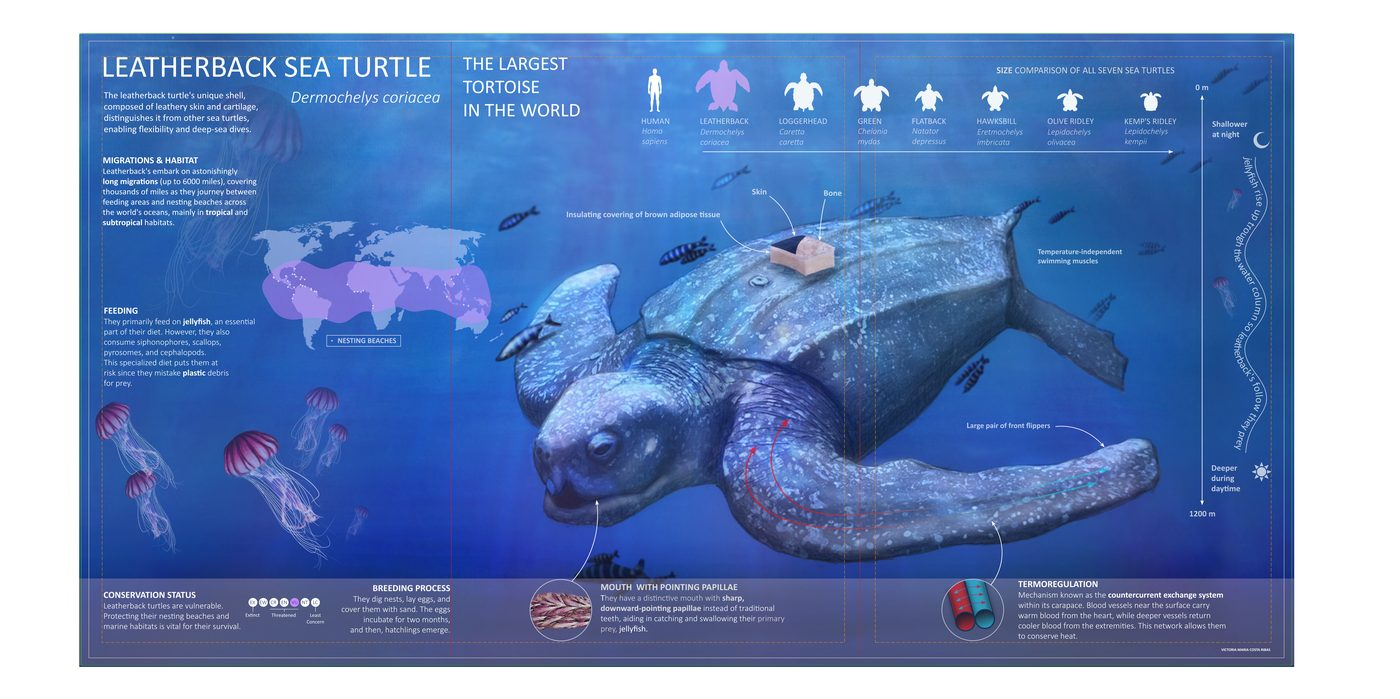
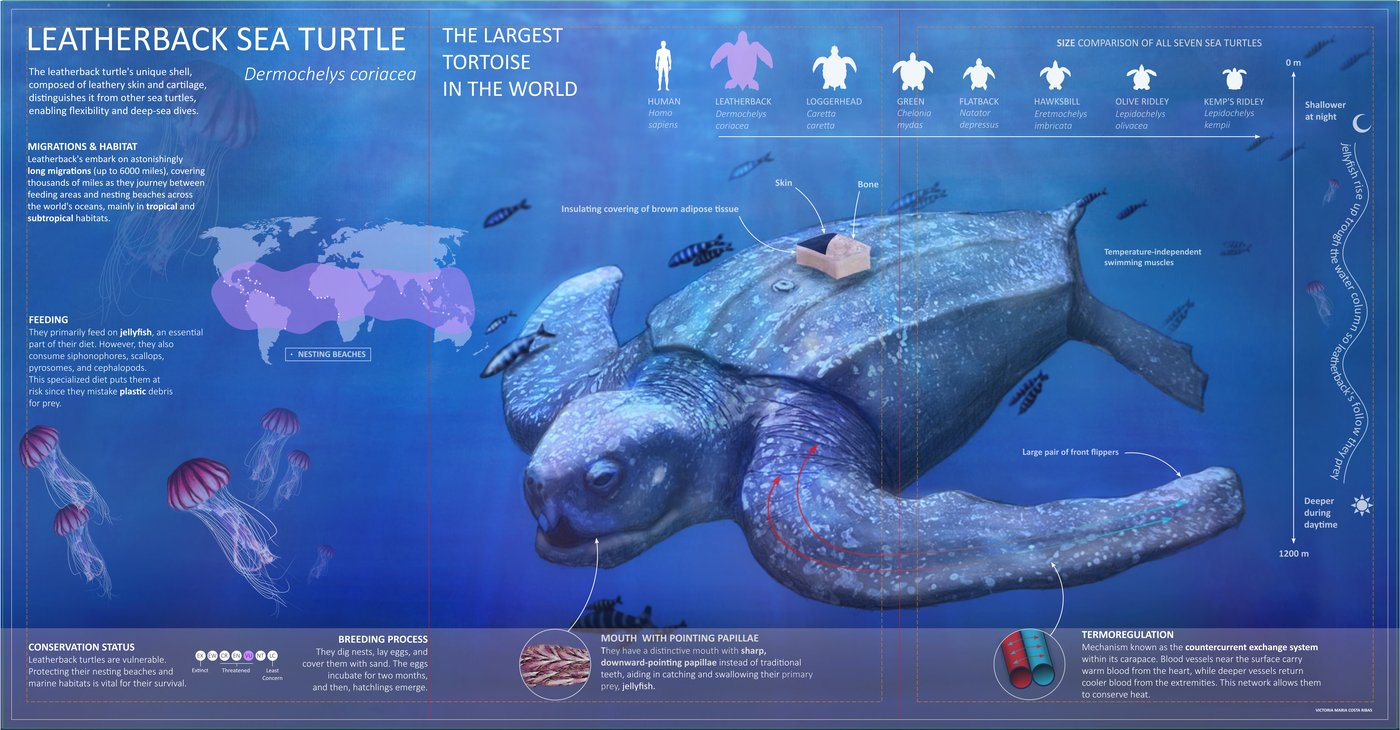
Add files via upload

diff --git a/main.js b/main.js
@@ -58,6 +58,57 @@ document.addEventListener('DOMContentLoaded', () => {
     window.addEventListener('resize', () => { if (window.innerWidth > 900) closeMenu(); });
   }
 
+  /* ---------- Portfolio lightbox (click to enlarge) ---------- */
+  const pfCards = document.querySelectorAll('.pf-card');
+  if (pfCards.length) {
+    const overlay = document.createElement('div');
+    overlay.className = 'lightbox-overlay';
+    const content = document.createElement('div');
+    content.className = 'lightbox-content';
+    overlay.appendChild(content);
+
+    const closeBtn = document.createElement('button');
+    closeBtn.className = 'lightbox-close';
+    closeBtn.innerHTML = '&times;';
+    closeBtn.setAttribute('aria-label', 'Close');
+    closeBtn.style.display = 'none';
+
+    document.body.appendChild(overlay);
+    document.body.appendChild(closeBtn);
+
+    function closeLightbox() {
+      overlay.classList.remove('open');
+      closeBtn.style.display = 'none';
+      document.body.classList.remove('lightbox-open');
+    }
+    function openLightbox(innerHTML, caption) {
+      content.innerHTML = innerHTML + (caption ? `<div class="lightbox-caption">${caption}</div>` : '');
+      overlay.classList.add('open');
+      closeBtn.style.display = 'flex';
+      document.body.classList.add('lightbox-open');
+    }
+
+    pfCards.forEach(card => {
+      const art = card.querySelector('.pf-art');
+      if (!art) return;
+      art.addEventListener('click', () => {
+        const img = art.querySelector('img');
+        const svg = art.querySelector('svg');
+        const titleEl = card.querySelector('.pf-info h3');
+        const caption = titleEl ? titleEl.textContent : '';
+        if (img) {
+          openLightbox(`<img src="${img.getAttribute('src')}" alt="${img.getAttribute('alt') || ''}">`, caption);
+        } else if (svg) {
+          openLightbox(svg.outerHTML, caption);
+        }
+      });
+    });
+
+    overlay.addEventListener('click', (e) => { if (e.target === overlay) closeLightbox(); });
+    closeBtn.addEventListener('click', closeLightbox);
+    document.addEventListener('keydown', (e) => { if (e.key === 'Escape') closeLightbox(); });
+  }
+
   /* ---------- Floating ambient sparkles ---------- */
   const spiralSVG = '<svg viewBox="0 0 60 60" fill="none" xmlns="http://www.w3.org/2000/svg"><path d="M31,30 L31.4,31.1 L31,32.3 L29.8,33 L28.1,33.1 L26.5,32.2 L25.8,30 L26,27.5 L27.7,25.3 L30.3,24.4 L33.3,25 L36.5,27.4 L38,30 L37.4,34.2 L34.8,38 L30,40.1 L24.5,39.6 L19.9,35.9 L18,30 L19.4,23.7 L23.9,18.7 L30,16.3 L37.2,17.6 L43,22.5 L45.7,30" stroke="currentColor" stroke-width="2.4" stroke-linecap="round" stroke-linejoin="round"/></svg>';
 

diff --git a/styles.css b/styles.css
@@ -298,8 +298,10 @@ form.contact-form{ display:flex; flex-direction:column; gap:20px; }
 .portfolio-grid{ display:grid; grid-template-columns:repeat(3,1fr); gap:1px; background:var(--line); border:1px solid var(--line); margin-bottom:150px; }
 .pf-card{ background:var(--paper); padding:0; display:flex; flex-direction:column; transition:background .3s ease; }
 .pf-card:hover{ background:var(--paper-2); }
-.pf-art{ aspect-ratio:1/1; display:flex; align-items:center; justify-content:center; padding:30px; border-bottom:1px solid var(--line); }
+.pf-art{ aspect-ratio:1/1; display:flex; align-items:center; justify-content:center; padding:30px; border-bottom:1px solid var(--line); overflow:hidden; cursor:pointer; }
 .pf-art svg{ width:70%; height:70%; }
+.pf-art img, .pf-art svg{ transition:transform .5s cubic-bezier(.2,.7,.3,1); }
+.pf-card:hover .pf-art img, .pf-card:hover .pf-art svg{ transform:scale(1.07); }
 .pf-info{ padding:24px 26px 30px; }
 .pf-info .tag{ font-family:'JetBrains Mono', monospace; font-size:10.5px; letter-spacing:0.08em; text-transform:uppercase; color:var(--vermillion); margin-bottom:8px; display:block; }
 .pf-info h3{ font-family:'Shippori Mincho', serif; font-size:19px; font-weight:600; margin-bottom:8px; }
@@ -311,6 +313,33 @@ form.contact-form{ display:flex; flex-direction:column; gap:20px; }
 
 /* ---------- Footer ---------- */
 footer{ border-top:1px solid var(--line); padding:30px 0; }
+footer .wrap{ display:flex; justify-content:space-between; align-items:center; flex-wrap:wrap; gap:14px; }
+footer .logo-mark img{ height:20px; }
+footer .mono{ font-size:11px; letter-spacing:0.05em; color:rgba(27,24,16,0.55); }
+
+/* ---------- Lightbox (portfolio pieces) ---------- */
+.lightbox-overlay{
+  position:fixed; inset:0; z-index:200;
+  background:rgba(27,24,16,0.94);
+  display:flex; align-items:center; justify-content:center;
+  padding:60px 40px;
+  opacity:0; pointer-events:none;
+  transition:opacity .3s ease;
+}
+.lightbox-overlay.open{ opacity:1; pointer-events:auto; }
+.lightbox-content{ max-width:90vw; max-height:85vh; display:flex; flex-direction:column; align-items:center; gap:18px; }
+.lightbox-content img, .lightbox-content svg{ max-width:90vw; max-height:74vh; object-fit:contain; background:var(--paper); }
+.lightbox-caption{ color:var(--paper); font-family:'JetBrains Mono', monospace; font-size:12.5px; letter-spacing:0.06em; text-align:center; opacity:0.85; }
+.lightbox-close{
+  position:fixed; top:22px; right:26px; z-index:201;
+  width:44px; height:44px; border-radius:50%;
+  background:rgba(244,238,220,0.12); border:1px solid rgba(244,238,220,0.35);
+  color:var(--paper); font-size:22px; line-height:1; cursor:pointer;
+  align-items:center; justify-content:center;
+  transition:background .2s ease, transform .2s ease;
+}
+.lightbox-close:hover{ background:rgba(244,238,220,0.28); transform:scale(1.06); }
+body.lightbox-open{ overflow:hidden; }
 footer .wrap{ display:flex; justify-content:space-between; align-items:center; flex-wrap:wrap; gap:14px; }
 footer .logo-mark img{ height:20px; }
 footer .mono{ font-size:11px; letter-spacing:0.05em; color:rgba(27,24,16,0.55); }

diff --git a/portfolio.html b/portfolio.html
@@ -146,11 +146,11 @@
       </div>
 
       <div class="pf-card">
-        <div class="pf-art pf-art-photo"><img src="pf-gohetita.jpg" alt="Ilustración de mineral Gohetita" style="width:100%; height:100%; object-fit:contain; background:var(--paper-2);"></div>
+        <div class="pf-art pf-art-photo"><img src="pf-gohetita.jpg" alt="Lámina colectiva de minerales de la mina Malaespera" style="width:100%; height:100%; object-fit:contain; background:var(--paper-2);"></div>
         <div class="pf-info">
           <span class="tag" data-i18n="v9.tag">Ilustración mineralógica · Acuarela</span>
-          <h3 data-i18n="v9.h3">Gohetita — Mina Malaespera</h3>
-          <p data-i18n="v9.p">Pieza para la lámina colectiva de minerales de la mina Malaespera (Bilbao), UPV/EHU.</p>
+          <h3 data-i18n="v9.h3">Minerales de la mina Malaespera</h3>
+          <p data-i18n="v9.p">Lámina colectiva junto a Gemma Vernet, Christian Ochoa, Irati Atxa, Laura Vazquez, Ivan Rodiel, María Alarcón, Diana Steelman, Andrés Diaz y Ane Toledo — UPV/EHU. Pieza propia: nº1, Gohetita.</p>
         </div>
       </div>
 
@@ -338,7 +338,7 @@
       "v6.tag":"Lámina botánica · Acuarela","v6.h3":"Viola x wittrockiana","v6.p":"Estudio botánico en acuarela con detalle de raíz y escala.",
       "v7.tag":"Ilustración naturalista","v7.h3":"Mariposa monarca","v7.p":"Ilustración en tinta y acuarela de Danaus plexippus.",
       "v8.tag":"Lámina botánica · UPV/EHU","v8.h3":"Fagus orientalis — Haya oriental","v8.p":"Lámina bilingüe (euskera-castellano) para el arboretum de la universidad.",
-      "v9.tag":"Ilustración mineralógica · Acuarela","v9.h3":"Gohetita — Mina Malaespera","v9.p":"Pieza para la lámina colectiva de minerales de la mina Malaespera (Bilbao), UPV/EHU.",
+      "v9.tag":"Ilustración mineralógica · Acuarela","v9.h3":"Minerales de la mina Malaespera","v9.p":"Lámina colectiva junto a Gemma Vernet, Christian Ochoa, Irati Atxa, Laura Vazquez, Ivan Rodiel, María Alarcón, Diana Steelman, Andrés Diaz y Ane Toledo — UPV/EHU. Pieza propia: nº1, Gohetita.",
       "laura.role":"Ciencias del mar","laura.soon":"Portfolio en construcción — próximamente.",
       "patxi.role":"Ingeniería y 3D","patxi.soon":"Portfolio en construcción — próximamente.",
       "studio.h2":"Exploraciones del estudio","studio.role":"Piezas conceptuales, no atribuidas a cliente",
@@ -366,7 +366,7 @@
       "v6.tag":"Botanical plate · Watercolour","v6.h3":"Viola x wittrockiana","v6.p":"A botanical watercolour study with root detail and scale.",
       "v7.tag":"Natural history illustration","v7.h3":"Monarch butterfly","v7.p":"An ink and watercolour illustration of Danaus plexippus.",
       "v8.tag":"Botanical plate · UPV/EHU","v8.h3":"Fagus orientalis — Oriental beech","v8.p":"A bilingual plate (Basque-Spanish) for the university's arboretum.",
-      "v9.tag":"Mineralogical illustration · Watercolour","v9.h3":"Goethite — Malaespera mine","v9.p":"A piece from the collective mineral plate for the Malaespera mine (Bilbao), UPV/EHU.",
+      "v9.tag":"Mineralogical illustration · Watercolour","v9.h3":"Minerals of the Malaespera mine","v9.p":"A collective plate with Gemma Vernet, Christian Ochoa, Irati Atxa, Laura Vazquez, Ivan Rodiel, María Alarcón, Diana Steelman, Andrés Diaz and Ane Toledo — UPV/EHU. Own piece: no. 1, Goethite.",
       "laura.role":"Marine science","laura.soon":"Portfolio under construction — coming soon.",
       "patxi.role":"Engineering & 3D","patxi.soon":"Portfolio under construction — coming soon.",
       "studio.h2":"Studio explorations","studio.role":"Concept pieces, not attributed to a client",